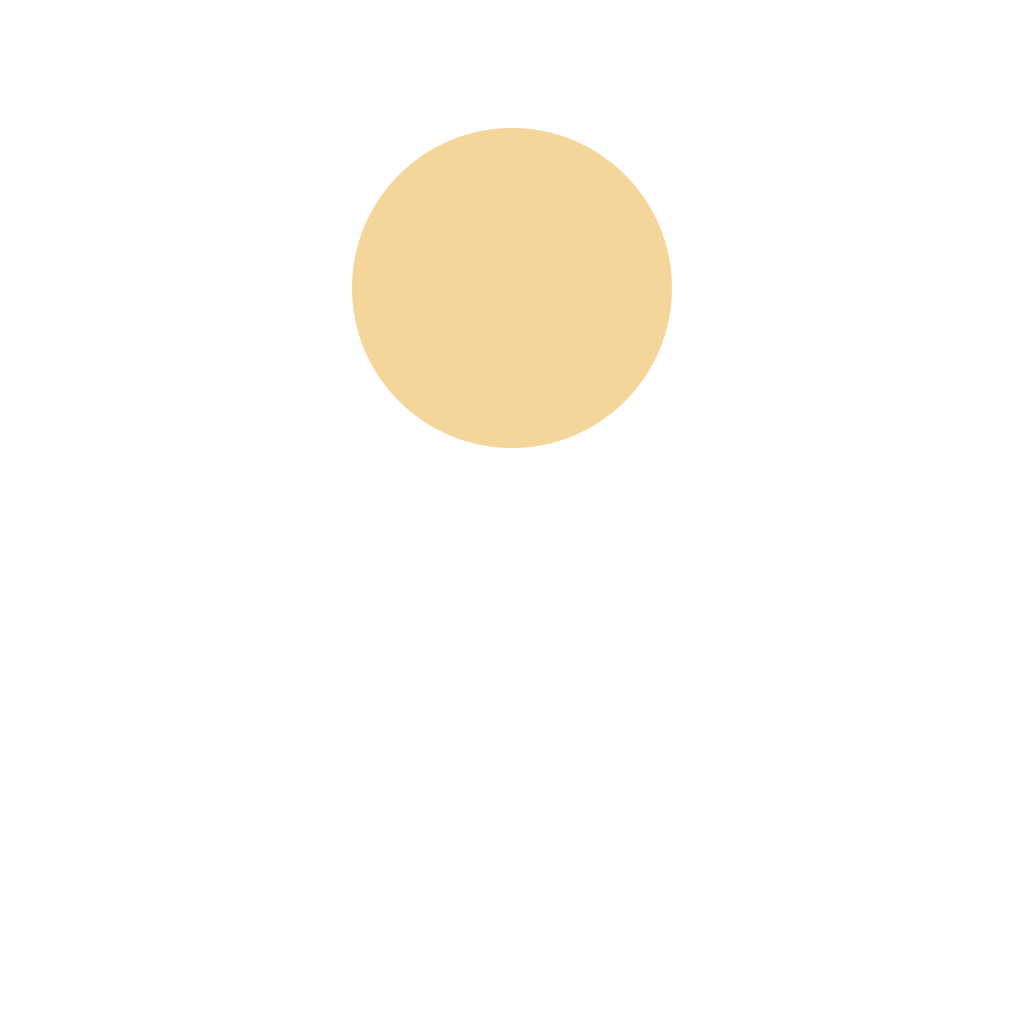
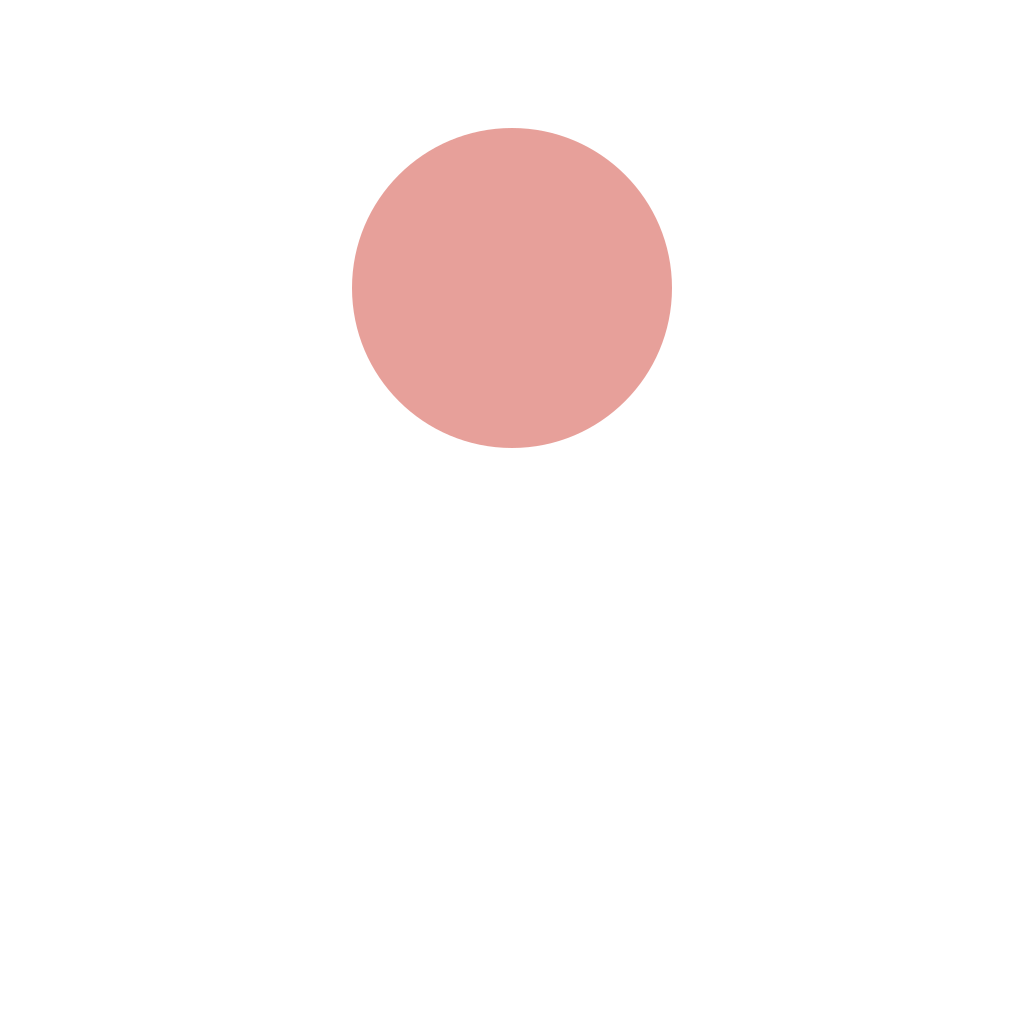
feat: 调整品牌配色并接入程序资源

Changed region(s): [[0.3438, 0.125, 0.6562, 0.4375]]

diff --git a/Sources/TideBar/BrandAssets.swift b/Sources/TideBar/BrandAssets.swift
@@ -1,0 +1,38 @@
+import AppKit
+import SwiftUI
+
+@MainActor
+enum BrandAssets {
+    static func menuBarImage() -> NSImage? {
+        guard let image = load("TideBarTemplate") else { return nil }
+        image.size = NSSize(width: 18, height: 18)
+        image.isTemplate = true
+        return image
+    }
+
+    static func markImage(for colorScheme: ColorScheme) -> NSImage? {
+        load(colorScheme == .dark ? "dark" : "light")
+    }
+
+    private static func load(_ name: String) -> NSImage? {
+        guard let url = Bundle.module.url(forResource: name,
+                                          withExtension: "pdf") else {
+            return nil
+        }
+        return NSImage(contentsOf: url)
+    }
+}
+
+struct BrandMark: View {
+    @Environment(\.colorScheme) private var colorScheme
+
+    var body: some View {
+        Group {
+            if let image = BrandAssets.markImage(for: colorScheme) {
+                Image(nsImage: image)
+                    .resizable()
+                    .scaledToFit()
+            }
+        }
+    }
+}

diff --git a/Sources/TideBar/AppDelegate.swift b/Sources/TideBar/AppDelegate.swift
@@ -91,7 +91,8 @@ final class AppDelegate: NSObject, NSApplicationDelegate {
     private func configureStatusItem() {
         let item = NSStatusBar.system.statusItem(withLength: NSStatusItem.squareLength)
         if let button = item.button {
-            button.image = NSImage(systemSymbolName: "water.waves", accessibilityDescription: nil)
+            button.image = BrandAssets.menuBarImage()
+                ?? NSImage(systemSymbolName: "circle", accessibilityDescription: nil)
         }
         statusItem = item
         rebuildStatusItemText()

diff --git a/Sources/TideBar/OnboardingView.swift b/Sources/TideBar/OnboardingView.swift
@@ -198,9 +198,8 @@ private struct IntroStep: View {
     var body: some View {
         VStack(spacing: 18) {
             VStack(spacing: 8) {
-                Image(systemName: "water.waves")
-                    .font(.system(size: 42, weight: .medium))
-                    .foregroundStyle(.tint)
+                BrandMark()
+                    .frame(width: 52, height: 52)
                     .accessibilityHidden(true)
                 Text(l10n.string("intro.title", table: .onboarding))
                     .font(.title.weight(.semibold))

diff --git a/Sources/TideBar/SettingsWindowController.swift b/Sources/TideBar/SettingsWindowController.swift
@@ -1196,9 +1196,7 @@ private struct AboutPage: View {
 
             Section {
                 HStack(spacing: 14) {
-                    Image(systemName: "water.waves")
-                        .font(.system(size: 36, weight: .medium))
-                        .foregroundStyle(.tint)
+                    BrandMark()
                         .frame(width: 48, height: 48)
                     VStack(alignment: .leading, spacing: 3) {
                         Text(l10n.string("about.name", table: .settings)).font(.headline)

diff --git a/plans/todo-2026-09-06-branding.md b/plans/todo-2026-09-06-branding.md
@@ -21,20 +21,20 @@
 - 构图：三条独立绘制的波浪配日月圆盘；圆盘位于波浪上方，呈升起意象，外围透明留白截断第一条波浪，下两条波浪完整。实心版为主标记，空心版为正式备选，两版及单色预览均保留。
 - 正式素材与使用说明：`brand/ASSETS.md`。唯一设计源为 `brand/sources/` 的实心／空心／菜单栏三份 SVG 与 `palettes.json`。`mono/` 提供单色 SVG / PNG / PDF；`color/` 提供配色表驱动的 Light／Dark 实心版，均为透明纯色，不含光影或背景。
 - `menubar/` 提供光学校正后的 18pt 模板 PDF、18/36px PNG 与 SVG；接入时显式设置 `isTemplate = true`，由系统适配颜色。
-- `composer/light/`、`composer/dark/` 提供对齐的波浪／圆盘两层 SVG 与透明 PNG；完整 Dock 图标由用户通过 Icon Composer 制作，打包由 app-bundle 任务承接。
+- `composer/light/`、`composer/dark/` 提供对齐的波浪／圆盘两层 SVG 与透明 PNG；完整 Dock 图标先由 Icon Composer 导出一份真实 `.icon` 作为格式基线，后续接入脚本生成与回归校验，打包由 app-bundle 任务承接。
 - `node tools/export-brand.mjs` 一键生成全部成品及两张预览 SVG／PNG；使用系统 XML 变换与 librsvg，不在脚本中维护图形坐标。`previews/` 保留实心／空心对照布局，并提供彩色与菜单栏对照。
 - 验证：一键命令检查 12 份素材 PNG、7 份 PDF、2 张 PNG 预览的尺寸、透明背景、模板纯黑、主题几何及 Composer 分层合成；回归测试覆盖重复导出、配色／几何替换、错误输入保护和旧产物清理。实际菜单栏显示与 Icon Composer 导入待用户确认。
-- 待接入：菜单栏（AppDelegate `configureStatusItem`）、关于页与引导页的 `water.waves` 占位，以及 README／网站标记。本轮不改应用代码。
+- 应用内 PDF 已接入：菜单栏使用 `menubar/TideBarTemplate.pdf` 模板，关于页与引导页按外观加载 `color/light.pdf`／`color/dark.pdf`；README／网站标记与正式 `.app` 图标仍待处理。
 
 ### 2. README 重写（已完成）
 
 - 面向使用者的完整介绍：slogan、pitch、核心功能四条、权限与隐私、安装、文档、许可证，全部从 docs/copy.md 派生。
 - 演示素材位已留占位（`docs/images/demo.gif`），素材产出后替换（复用 onboarding 演示动画产出，与向导演示同源）。
 
-### 3. 设置「关于」页（已完成，图标待品牌资产替换）
+### 3. 设置「关于」页（已完成）
 
 - slogan（PageHeader 描述）、产品定位副标、版权（© 2026 Chien Zhang）、反馈渠道（GitHub Issues 链接）已补齐。
-- 版本与构建号（已有）保留；图标仍为 `water.waves` 占位，品牌资产交付后替换。
+- 版本与构建号（已有）保留；品牌标记使用资源 bundle 中的浅色／深色 PDF。
 
 ### 4. 命名统一（已完成）
 

diff --git a/brand/ASSETS.md b/brand/ASSETS.md
@@ -80,6 +80,14 @@ node tools/export-brand.mjs
 
 同一次执行生成全部 SVG、12 份素材 PNG、7 份矢量 PDF，以及两张预览的 SVG／PNG，并自动验证后替换成品。临时文件和 Swift 模块缓存位于项目 `.build/`；生成或验证失败不覆盖已有成品，普通发布错误会恢复已有目录。它不是进程中断／断电下的整树原子事务，勿并发导出。
 
+应用内资源同步单独执行，不由品牌生成脚本隐式触发：
+
+```sh
+node tools/sync-brand-resources.mjs
+```
+
+该命令只将已生成的菜单栏、浅色和深色 PDF 同步到 `Sources/TideBar/Resources/Brand/`，不修改其他品牌成品或预览。
+
 工具分工：
 
 - `export-brand.mjs`：读取母版和配色，编排 XSLT、librsvg、预览与验证。
